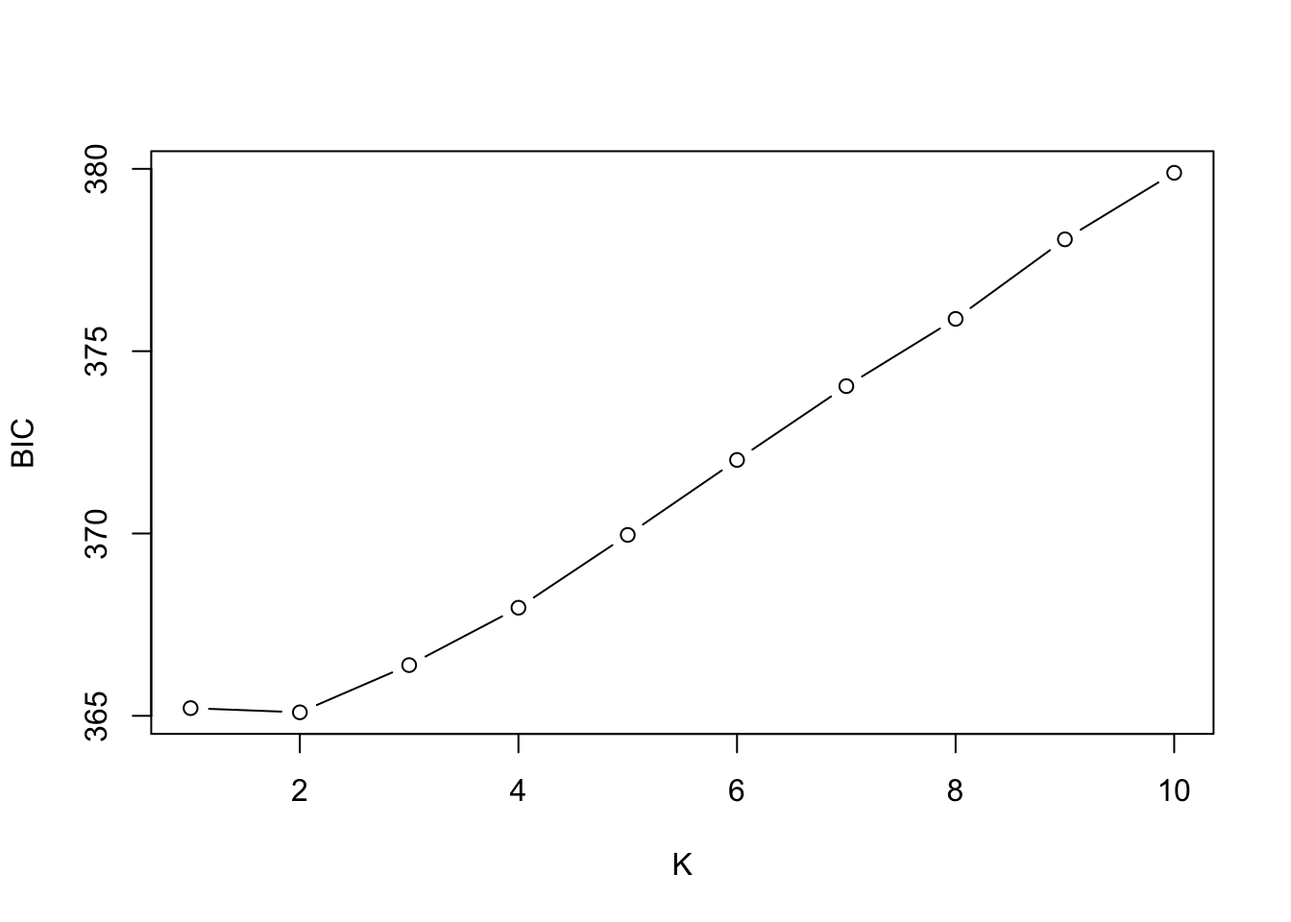
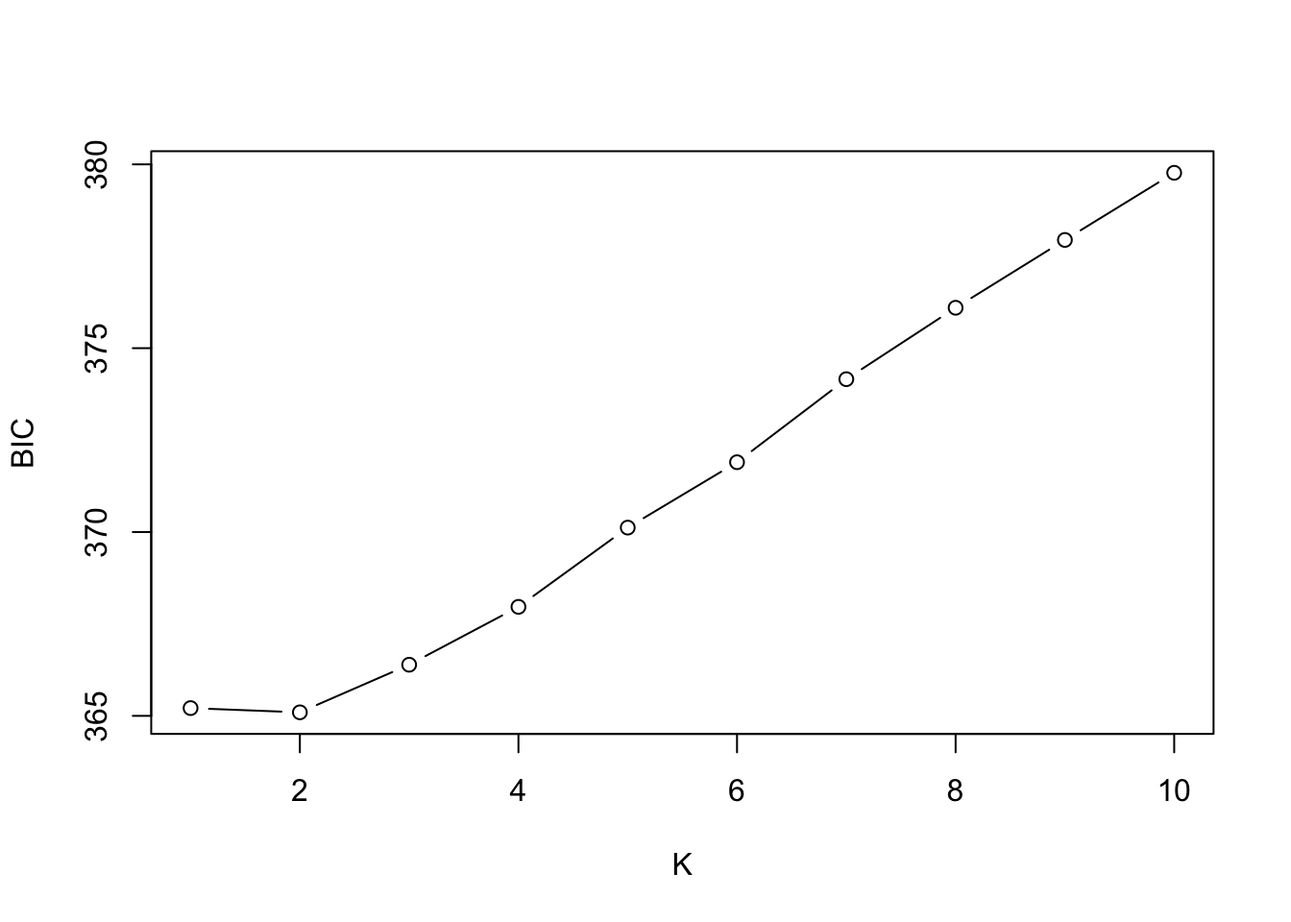
nvm

diff --git a/docs/snakemake.html b/docs/snakemake.html
@@ -245,111 +245,102 @@ pre > code.sourceCode > span > a:first-child::before { text-decoration: underlin
 <span id="cb8-11"><a href="#cb8-11" aria-hidden="true" tabindex="-1"></a><span class="ex">module</span> load Mamba/23.11.0-0<span class="kw">;</span></span>
 <span id="cb8-12"><a href="#cb8-12" aria-hidden="true" tabindex="-1"></a><span class="bu">eval</span> <span class="st">"</span><span class="va">$(</span><span class="ex">conda</span> shell.bash hook<span class="va">)</span><span class="st">"</span></span>
 <span id="cb8-13"><a href="#cb8-13" aria-hidden="true" tabindex="-1"></a><span class="ex">snakemake</span> <span class="at">--profile</span> profile/slurm <span class="at">--use-conda</span></span></code></pre></div><button title="Copy to Clipboard" class="code-copy-button"><i class="bi"></i></button></div>
-<p>You should also add a configuration file for your job scheduler (<code>profiles/slurm/config.yaml</code>):</p>
-<div class="code-copy-outer-scaffold"><div class="sourceCode" id="cb9"><pre class="sourceCode bash code-with-copy"><code class="sourceCode bash"><span id="cb9-1"><a href="#cb9-1" aria-hidden="true" tabindex="-1"></a><span class="ex">executor:</span> slurm</span>
-<span id="cb9-2"><a href="#cb9-2" aria-hidden="true" tabindex="-1"></a><span class="ex">jobs:</span> 20</span>
-<span id="cb9-3"><a href="#cb9-3" aria-hidden="true" tabindex="-1"></a><span class="ex">latency-wait:</span> 60</span>
-<span id="cb9-4"><a href="#cb9-4" aria-hidden="true" tabindex="-1"></a><span class="ex">default-resources:</span></span>
-<span id="cb9-5"><a href="#cb9-5" aria-hidden="true" tabindex="-1"></a>  <span class="ex">-</span> runtime=30</span>
-<span id="cb9-6"><a href="#cb9-6" aria-hidden="true" tabindex="-1"></a>  <span class="ex">-</span> mem_mb=4000</span>
-<span id="cb9-7"><a href="#cb9-7" aria-hidden="true" tabindex="-1"></a>  <span class="ex">-</span> slurm_partition=priority</span>
-<span id="cb9-8"><a href="#cb9-8" aria-hidden="true" tabindex="-1"></a>  <span class="ex">-</span> slurm_account=priority-bioe-591-genomics</span></code></pre></div><button title="Copy to Clipboard" class="code-copy-button"><i class="bi"></i></button></div>
 <p>In theory, you should be ready to run the workflow. Before we do so, however, it is useful to perform a so-called dry run by invoking the same command with the addition of the argument <code>-n</code>. Doing so will test whether your paths and <code>Snakemake</code> syntax is correct and preview the steps it will run—something particularly helpful when they are not what you expect! Conveniently, this can be done on the login node (though recall you will need to make <code>Mamba</code> and the <code>conda</code> command accessible via <code>module load Mamba/23.11.0-0; eval "$(conda shell.bash hook)"</code>):</p>
-<div class="code-copy-outer-scaffold"><div class="sourceCode" id="cb10"><pre class="sourceCode bash code-with-copy"><code class="sourceCode bash"><span id="cb10-1"><a href="#cb10-1" aria-hidden="true" tabindex="-1"></a><span class="ex">snakemake</span> <span class="at">--profile</span> profile/slurm <span class="at">--use-conda</span> <span class="at">-n</span> </span></code></pre></div><button title="Copy to Clipboard" class="code-copy-button"><i class="bi"></i></button></div>
+<div class="code-copy-outer-scaffold"><div class="sourceCode" id="cb9"><pre class="sourceCode bash code-with-copy"><code class="sourceCode bash"><span id="cb9-1"><a href="#cb9-1" aria-hidden="true" tabindex="-1"></a><span class="ex">snakemake</span> <span class="at">--profile</span> profile/slurm <span class="at">--use-conda</span> <span class="at">-n</span> </span></code></pre></div><button title="Copy to Clipboard" class="code-copy-button"><i class="bi"></i></button></div>
 <p>If successful, you should see output that begins like this, summarizing the number of jobs on tap:</p>
-<div class="code-copy-outer-scaffold"><div class="sourceCode" id="cb11"><pre class="sourceCode bash code-with-copy"><code class="sourceCode bash"><span id="cb11-1"><a href="#cb11-1" aria-hidden="true" tabindex="-1"></a><span class="ex">Using</span> profile profile/slurm for setting default command line arguments.</span>
-<span id="cb11-2"><a href="#cb11-2" aria-hidden="true" tabindex="-1"></a><span class="ex">host:</span> tempest-login</span>
-<span id="cb11-3"><a href="#cb11-3" aria-hidden="true" tabindex="-1"></a><span class="ex">Building</span> DAG of jobs...</span>
-<span id="cb11-4"><a href="#cb11-4" aria-hidden="true" tabindex="-1"></a><span class="ex">Conda</span> environment envs/fastp.yaml will be created.</span>
-<span id="cb11-5"><a href="#cb11-5" aria-hidden="true" tabindex="-1"></a><span class="ex">Job</span> stats:</span>
-<span id="cb11-6"><a href="#cb11-6" aria-hidden="true" tabindex="-1"></a><span class="ex">job</span>      count</span>
-<span id="cb11-7"><a href="#cb11-7" aria-hidden="true" tabindex="-1"></a><span class="ex">-----</span>  <span class="at">-------</span></span>
-<span id="cb11-8"><a href="#cb11-8" aria-hidden="true" tabindex="-1"></a><span class="ex">fastp</span>        1</span>
-<span id="cb11-9"><a href="#cb11-9" aria-hidden="true" tabindex="-1"></a><span class="ex">total</span>        1</span></code></pre></div><button title="Copy to Clipboard" class="code-copy-button"><i class="bi"></i></button></div>
+<div class="code-copy-outer-scaffold"><div class="sourceCode" id="cb10"><pre class="sourceCode bash code-with-copy"><code class="sourceCode bash"><span id="cb10-1"><a href="#cb10-1" aria-hidden="true" tabindex="-1"></a><span class="ex">Using</span> profile profile/slurm for setting default command line arguments.</span>
+<span id="cb10-2"><a href="#cb10-2" aria-hidden="true" tabindex="-1"></a><span class="ex">host:</span> tempest-login</span>
+<span id="cb10-3"><a href="#cb10-3" aria-hidden="true" tabindex="-1"></a><span class="ex">Building</span> DAG of jobs...</span>
+<span id="cb10-4"><a href="#cb10-4" aria-hidden="true" tabindex="-1"></a><span class="ex">Conda</span> environment envs/fastp.yaml will be created.</span>
+<span id="cb10-5"><a href="#cb10-5" aria-hidden="true" tabindex="-1"></a><span class="ex">Job</span> stats:</span>
+<span id="cb10-6"><a href="#cb10-6" aria-hidden="true" tabindex="-1"></a><span class="ex">job</span>      count</span>
+<span id="cb10-7"><a href="#cb10-7" aria-hidden="true" tabindex="-1"></a><span class="ex">-----</span>  <span class="at">-------</span></span>
+<span id="cb10-8"><a href="#cb10-8" aria-hidden="true" tabindex="-1"></a><span class="ex">fastp</span>        1</span>
+<span id="cb10-9"><a href="#cb10-9" aria-hidden="true" tabindex="-1"></a><span class="ex">total</span>        1</span></code></pre></div><button title="Copy to Clipboard" class="code-copy-button"><i class="bi"></i></button></div>
 <p>The latter half indicates that <code>rule fastp</code> will indeed be run, as it is missing output files:</p>
-<div class="code-copy-outer-scaffold"><div class="sourceCode" id="cb12"><pre class="sourceCode bash code-with-copy"><code class="sourceCode bash"><span id="cb12-1"><a href="#cb12-1" aria-hidden="true" tabindex="-1"></a><span class="ex">rule</span> fastp:</span>
-<span id="cb12-2"><a href="#cb12-2" aria-hidden="true" tabindex="-1"></a>    <span class="ex">input:</span> data/sample1_R1.fastq.gz, data/sample1_R2.fastq.gz</span>
-<span id="cb12-3"><a href="#cb12-3" aria-hidden="true" tabindex="-1"></a>    <span class="ex">output:</span> results/clean/sample1_R1.clean.fastq.gz, results/clean/sample1_R2.clean.fastq.gz</span>
-<span id="cb12-4"><a href="#cb12-4" aria-hidden="true" tabindex="-1"></a>    <span class="ex">jobid:</span> 0</span>
-<span id="cb12-5"><a href="#cb12-5" aria-hidden="true" tabindex="-1"></a>    <span class="ex">reason:</span> Missing output files: results/clean/sample1_R1.clean.fastq.gz, results/clean/sample1_R2.clean.fastq.gz</span>
-<span id="cb12-6"><a href="#cb12-6" aria-hidden="true" tabindex="-1"></a>    <span class="ex">resources:</span> mem_mb=4000, mem_mib=3815, disk_mb=<span class="op">&lt;</span>TBD<span class="op">&gt;</span>, tmpdir=<span class="op">&lt;</span>TBD<span class="op">&gt;</span>, runtime=30, slurm_partition=<span class="op">&lt;</span>TBD<span class="op">&gt;</span>, slurm_account=<span class="op">&lt;</span>TBD<span class="op">&gt;</span></span>
-<span id="cb12-7"><a href="#cb12-7" aria-hidden="true" tabindex="-1"></a><span class="ex">Job</span> stats:</span>
-<span id="cb12-8"><a href="#cb12-8" aria-hidden="true" tabindex="-1"></a><span class="ex">job</span>      count</span>
-<span id="cb12-9"><a href="#cb12-9" aria-hidden="true" tabindex="-1"></a><span class="ex">-----</span>  <span class="at">-------</span></span>
-<span id="cb12-10"><a href="#cb12-10" aria-hidden="true" tabindex="-1"></a><span class="ex">fastp</span>        1</span>
-<span id="cb12-11"><a href="#cb12-11" aria-hidden="true" tabindex="-1"></a><span class="ex">total</span>        1</span>
-<span id="cb12-12"><a href="#cb12-12" aria-hidden="true" tabindex="-1"></a></span>
-<span id="cb12-13"><a href="#cb12-13" aria-hidden="true" tabindex="-1"></a><span class="ex">Reasons:</span></span>
-<span id="cb12-14"><a href="#cb12-14" aria-hidden="true" tabindex="-1"></a>    <span class="kw">(</span><span class="ex">check</span> individual jobs above for details<span class="kw">)</span></span>
-<span id="cb12-15"><a href="#cb12-15" aria-hidden="true" tabindex="-1"></a>    <span class="ex">output</span> files have to be generated:</span>
-<span id="cb12-16"><a href="#cb12-16" aria-hidden="true" tabindex="-1"></a>        <span class="ex">fastp</span></span>
-<span id="cb12-17"><a href="#cb12-17" aria-hidden="true" tabindex="-1"></a><span class="ex">This</span> was a dry-run <span class="er">(</span><span class="ex">flag</span> <span class="at">-n</span><span class="kw">)</span><span class="bu">.</span> The order of jobs does not reflect the order of execution.</span></code></pre></div><button title="Copy to Clipboard" class="code-copy-button"><i class="bi"></i></button></div>
+<div class="code-copy-outer-scaffold"><div class="sourceCode" id="cb11"><pre class="sourceCode bash code-with-copy"><code class="sourceCode bash"><span id="cb11-1"><a href="#cb11-1" aria-hidden="true" tabindex="-1"></a><span class="ex">rule</span> fastp:</span>
+<span id="cb11-2"><a href="#cb11-2" aria-hidden="true" tabindex="-1"></a>    <span class="ex">input:</span> data/sample1_R1.fastq.gz, data/sample1_R2.fastq.gz</span>
+<span id="cb11-3"><a href="#cb11-3" aria-hidden="true" tabindex="-1"></a>    <span class="ex">output:</span> results/clean/sample1_R1.clean.fastq.gz, results/clean/sample1_R2.clean.fastq.gz</span>
+<span id="cb11-4"><a href="#cb11-4" aria-hidden="true" tabindex="-1"></a>    <span class="ex">jobid:</span> 0</span>
+<span id="cb11-5"><a href="#cb11-5" aria-hidden="true" tabindex="-1"></a>    <span class="ex">reason:</span> Missing output files: results/clean/sample1_R1.clean.fastq.gz, results/clean/sample1_R2.clean.fastq.gz</span>
+<span id="cb11-6"><a href="#cb11-6" aria-hidden="true" tabindex="-1"></a>    <span class="ex">resources:</span> mem_mb=4000, mem_mib=3815, disk_mb=<span class="op">&lt;</span>TBD<span class="op">&gt;</span>, tmpdir=<span class="op">&lt;</span>TBD<span class="op">&gt;</span>, runtime=30, slurm_partition=<span class="op">&lt;</span>TBD<span class="op">&gt;</span>, slurm_account=<span class="op">&lt;</span>TBD<span class="op">&gt;</span></span>
+<span id="cb11-7"><a href="#cb11-7" aria-hidden="true" tabindex="-1"></a><span class="ex">Job</span> stats:</span>
+<span id="cb11-8"><a href="#cb11-8" aria-hidden="true" tabindex="-1"></a><span class="ex">job</span>      count</span>
+<span id="cb11-9"><a href="#cb11-9" aria-hidden="true" tabindex="-1"></a><span class="ex">-----</span>  <span class="at">-------</span></span>
+<span id="cb11-10"><a href="#cb11-10" aria-hidden="true" tabindex="-1"></a><span class="ex">fastp</span>        1</span>
+<span id="cb11-11"><a href="#cb11-11" aria-hidden="true" tabindex="-1"></a><span class="ex">total</span>        1</span>
+<span id="cb11-12"><a href="#cb11-12" aria-hidden="true" tabindex="-1"></a></span>
+<span id="cb11-13"><a href="#cb11-13" aria-hidden="true" tabindex="-1"></a><span class="ex">Reasons:</span></span>
+<span id="cb11-14"><a href="#cb11-14" aria-hidden="true" tabindex="-1"></a>    <span class="kw">(</span><span class="ex">check</span> individual jobs above for details<span class="kw">)</span></span>
+<span id="cb11-15"><a href="#cb11-15" aria-hidden="true" tabindex="-1"></a>    <span class="ex">output</span> files have to be generated:</span>
+<span id="cb11-16"><a href="#cb11-16" aria-hidden="true" tabindex="-1"></a>        <span class="ex">fastp</span></span>
+<span id="cb11-17"><a href="#cb11-17" aria-hidden="true" tabindex="-1"></a><span class="ex">This</span> was a dry-run <span class="er">(</span><span class="ex">flag</span> <span class="at">-n</span><span class="kw">)</span><span class="bu">.</span> The order of jobs does not reflect the order of execution.</span></code></pre></div><button title="Copy to Clipboard" class="code-copy-button"><i class="bi"></i></button></div>
 <p>Once your dry run command produces the above text, you can execute the real script, being careful to do so from the root of the <code>workflow/</code> directory to ensure relative paths are not broken (e.g., <code>sbatch run/snakemake.sbatch</code>). The job should run relatively quickly, producing the <code>fastp.html</code> and <code>fastp.json</code> files you inspected earlier. It will also output trimmed reads in the <code>results/clean/</code> subdirectory, with the names given by the <code>output:</code> block of <code>rule fastp</code> in your <code>Snakefile</code>.</p>
 <p>Though it is always satisfying to have a complicated piece of software run successfully, such a simple example does not clearly demonstrate one of the primary benefits of <code>Snakemake</code>—the ability to robustly apply commands to multiple samples simultaneously. You’ve come up with various solutions to this so far, ranging from copy-paste to the asterices in filenames, but may have also been burned by the difficulty of doing so safely and efficiently. We will now introduce <code>Snakemake</code>’s wildcard syntax, re-running <code>fastp</code> on multiple files simultaneously. To do so, you will want to copy at least one other sample’s paired end reads into <code>workflow/data</code>.</p>
 <p>Next, edit your <code>Snakefile</code> using <code>nano</code>. In simplified the example below, the wildcard <code>{sample}</code> will match any character string in a file that ends <code>_R1.fastq.gz</code>. (For most of you, <code>_R1_001.fastq.gz</code> and <code>_R2_001.fastq.gz</code> will be better choices.) We specify our samples with a vector labeled <code>SAMPLES</code>, which comes into play directly in the biggest addition to our <code>Snakefile</code>—the new <code>rule all</code>, which defines the end point of the workflow. Here, <code>Snakemake</code> simply looks for “input” files that indicate the entire pipeline is complete. In our case, these are trimmed <code>fastq.gz</code> files, which are listed using the <a href="https://snakemake.readthedocs.io/en/stable/snakefiles/rules.html">software’s <code>expand()</code> helper function</a>.</p>
-<div class="code-copy-outer-scaffold"><div class="sourceCode" id="cb13"><pre class="sourceCode bash code-with-copy"><code class="sourceCode bash"><span id="cb13-1"><a href="#cb13-1" aria-hidden="true" tabindex="-1"></a><span class="ex">SAMPLES</span> = <span class="pp">[</span><span class="st">"sample1"</span><span class="ss">,</span><span class="st">"sample2"</span><span class="pp">]</span></span>
-<span id="cb13-2"><a href="#cb13-2" aria-hidden="true" tabindex="-1"></a></span>
-<span id="cb13-3"><a href="#cb13-3" aria-hidden="true" tabindex="-1"></a><span class="ex">rule</span> all:</span>
-<span id="cb13-4"><a href="#cb13-4" aria-hidden="true" tabindex="-1"></a>    <span class="ex">input:</span></span>
-<span id="cb13-5"><a href="#cb13-5" aria-hidden="true" tabindex="-1"></a>        <span class="fu">expand</span><span class="er">(</span><span class="st">"results/clean/{sample}_R1.clean.fastq.gz"</span><span class="ex">,</span> sample=SAMPLES<span class="kw">)</span><span class="ex">,</span></span>
-<span id="cb13-6"><a href="#cb13-6" aria-hidden="true" tabindex="-1"></a>        <span class="fu">expand</span><span class="er">(</span><span class="st">"results/clean/{sample}_R2.clean.fastq.gz"</span><span class="ex">,</span> sample=SAMPLES<span class="kw">)</span></span>
-<span id="cb13-7"><a href="#cb13-7" aria-hidden="true" tabindex="-1"></a></span>
-<span id="cb13-8"><a href="#cb13-8" aria-hidden="true" tabindex="-1"></a><span class="ex">rule</span> fastp:</span>
-<span id="cb13-9"><a href="#cb13-9" aria-hidden="true" tabindex="-1"></a>    <span class="ex">conda:</span></span>
-<span id="cb13-10"><a href="#cb13-10" aria-hidden="true" tabindex="-1"></a>        <span class="st">"envs/fastp.yaml"</span></span>
-<span id="cb13-11"><a href="#cb13-11" aria-hidden="true" tabindex="-1"></a>    <span class="ex">input:</span></span>
-<span id="cb13-12"><a href="#cb13-12" aria-hidden="true" tabindex="-1"></a>        <span class="va">r1</span><span class="op">=</span><span class="st">"data/{sample}_R1.fastq.gz"</span>,</span>
-<span id="cb13-13"><a href="#cb13-13" aria-hidden="true" tabindex="-1"></a>        <span class="va">r2</span><span class="op">=</span><span class="st">"data/{sample}_R2.fastq.gz"</span></span>
-<span id="cb13-14"><a href="#cb13-14" aria-hidden="true" tabindex="-1"></a>    <span class="ex">output:</span></span>
-<span id="cb13-15"><a href="#cb13-15" aria-hidden="true" tabindex="-1"></a>        <span class="va">r1</span><span class="op">=</span><span class="st">"results/clean/{sample}_R1.clean.fastq.gz"</span>,</span>
-<span id="cb13-16"><a href="#cb13-16" aria-hidden="true" tabindex="-1"></a>        <span class="va">r2</span><span class="op">=</span><span class="st">"results/clean/{sample}_R2.clean.fastq.gz"</span></span>
-<span id="cb13-17"><a href="#cb13-17" aria-hidden="true" tabindex="-1"></a>    <span class="ex">shell:</span></span>
-<span id="cb13-18"><a href="#cb13-18" aria-hidden="true" tabindex="-1"></a>        <span class="st">"""</span></span>
-<span id="cb13-19"><a href="#cb13-19" aria-hidden="true" tabindex="-1"></a><span class="st">        fastp </span><span class="dt">\</span></span>
-<span id="cb13-20"><a href="#cb13-20" aria-hidden="true" tabindex="-1"></a><span class="st">        -i {input.r1} -I {input.r2} </span><span class="dt">\</span></span>
-<span id="cb13-21"><a href="#cb13-21" aria-hidden="true" tabindex="-1"></a><span class="st">        -o {output.r1} -O {output.r2}</span></span>
-<span id="cb13-22"><a href="#cb13-22" aria-hidden="true" tabindex="-1"></a><span class="st">        """</span></span></code></pre></div><button title="Copy to Clipboard" class="code-copy-button"><i class="bi"></i></button></div>
+<div class="code-copy-outer-scaffold"><div class="sourceCode" id="cb12"><pre class="sourceCode bash code-with-copy"><code class="sourceCode bash"><span id="cb12-1"><a href="#cb12-1" aria-hidden="true" tabindex="-1"></a><span class="ex">SAMPLES</span> = <span class="pp">[</span><span class="st">"sample1"</span><span class="ss">,</span><span class="st">"sample2"</span><span class="pp">]</span></span>
+<span id="cb12-2"><a href="#cb12-2" aria-hidden="true" tabindex="-1"></a></span>
+<span id="cb12-3"><a href="#cb12-3" aria-hidden="true" tabindex="-1"></a><span class="ex">rule</span> all:</span>
+<span id="cb12-4"><a href="#cb12-4" aria-hidden="true" tabindex="-1"></a>    <span class="ex">input:</span></span>
+<span id="cb12-5"><a href="#cb12-5" aria-hidden="true" tabindex="-1"></a>        <span class="fu">expand</span><span class="er">(</span><span class="st">"results/clean/{sample}_R1.clean.fastq.gz"</span><span class="ex">,</span> sample=SAMPLES<span class="kw">)</span><span class="ex">,</span></span>
+<span id="cb12-6"><a href="#cb12-6" aria-hidden="true" tabindex="-1"></a>        <span class="fu">expand</span><span class="er">(</span><span class="st">"results/clean/{sample}_R2.clean.fastq.gz"</span><span class="ex">,</span> sample=SAMPLES<span class="kw">)</span></span>
+<span id="cb12-7"><a href="#cb12-7" aria-hidden="true" tabindex="-1"></a></span>
+<span id="cb12-8"><a href="#cb12-8" aria-hidden="true" tabindex="-1"></a><span class="ex">rule</span> fastp:</span>
+<span id="cb12-9"><a href="#cb12-9" aria-hidden="true" tabindex="-1"></a>    <span class="ex">conda:</span></span>
+<span id="cb12-10"><a href="#cb12-10" aria-hidden="true" tabindex="-1"></a>        <span class="st">"envs/fastp.yaml"</span></span>
+<span id="cb12-11"><a href="#cb12-11" aria-hidden="true" tabindex="-1"></a>    <span class="ex">input:</span></span>
+<span id="cb12-12"><a href="#cb12-12" aria-hidden="true" tabindex="-1"></a>        <span class="va">r1</span><span class="op">=</span><span class="st">"data/{sample}_R1.fastq.gz"</span>,</span>
+<span id="cb12-13"><a href="#cb12-13" aria-hidden="true" tabindex="-1"></a>        <span class="va">r2</span><span class="op">=</span><span class="st">"data/{sample}_R2.fastq.gz"</span></span>
+<span id="cb12-14"><a href="#cb12-14" aria-hidden="true" tabindex="-1"></a>    <span class="ex">output:</span></span>
+<span id="cb12-15"><a href="#cb12-15" aria-hidden="true" tabindex="-1"></a>        <span class="va">r1</span><span class="op">=</span><span class="st">"results/clean/{sample}_R1.clean.fastq.gz"</span>,</span>
+<span id="cb12-16"><a href="#cb12-16" aria-hidden="true" tabindex="-1"></a>        <span class="va">r2</span><span class="op">=</span><span class="st">"results/clean/{sample}_R2.clean.fastq.gz"</span></span>
+<span id="cb12-17"><a href="#cb12-17" aria-hidden="true" tabindex="-1"></a>    <span class="ex">shell:</span></span>
+<span id="cb12-18"><a href="#cb12-18" aria-hidden="true" tabindex="-1"></a>        <span class="st">"""</span></span>
+<span id="cb12-19"><a href="#cb12-19" aria-hidden="true" tabindex="-1"></a><span class="st">        fastp </span><span class="dt">\</span></span>
+<span id="cb12-20"><a href="#cb12-20" aria-hidden="true" tabindex="-1"></a><span class="st">        -i {input.r1} -I {input.r2} </span><span class="dt">\</span></span>
+<span id="cb12-21"><a href="#cb12-21" aria-hidden="true" tabindex="-1"></a><span class="st">        -o {output.r1} -O {output.r2}</span></span>
+<span id="cb12-22"><a href="#cb12-22" aria-hidden="true" tabindex="-1"></a><span class="st">        """</span></span></code></pre></div><button title="Copy to Clipboard" class="code-copy-button"><i class="bi"></i></button></div>
 <p>Once your paths and filenames have been changed as needed, attempt another dry run (<code>snakemake --profile profile/slurm --use-conda -n</code>). If it is successful, you will note that the <code>count</code> of the <code>total</code> row in the job stats section of the output now equals the number of samples you copied into your <code>data/</code> subdirectory. This indicates you are ready to run the <code>.sbatch</code> script for real.</p>
 <p>To conclude our <code>Snakemake</code> tutorial, we will expand our <code>Snakefile</code> to include a second rule: <code>index</code>, which will run <code>samtools faidx</code> to generate a <code>.fasta</code> index file. First, you’ll need to create a <code>genome/</code> subdirectory in <code>workflow/</code>, and copy over <code>hemoglobin_references.fasta</code> into it. You’ll also want to copy over the <code>align.yaml</code> environment into <code>envs/</code>. For convenience, I’ll reproduce that here:</p>
-<div class="code-copy-outer-scaffold"><div class="sourceCode" id="cb14"><pre class="sourceCode bash code-with-copy"><code class="sourceCode bash"><span id="cb14-1"><a href="#cb14-1" aria-hidden="true" tabindex="-1"></a><span class="ex">name:</span> align</span>
-<span id="cb14-2"><a href="#cb14-2" aria-hidden="true" tabindex="-1"></a><span class="ex">channels:</span></span>
-<span id="cb14-3"><a href="#cb14-3" aria-hidden="true" tabindex="-1"></a>  <span class="ex">-</span> conda-forge</span>
-<span id="cb14-4"><a href="#cb14-4" aria-hidden="true" tabindex="-1"></a>  <span class="ex">-</span> bioconda</span>
-<span id="cb14-5"><a href="#cb14-5" aria-hidden="true" tabindex="-1"></a><span class="ex">dependencies:</span></span>
-<span id="cb14-6"><a href="#cb14-6" aria-hidden="true" tabindex="-1"></a>  <span class="ex">-</span> bwa=0.7.17</span>
-<span id="cb14-7"><a href="#cb14-7" aria-hidden="true" tabindex="-1"></a>  <span class="ex">-</span> samtools=1.19</span></code></pre></div><button title="Copy to Clipboard" class="code-copy-button"><i class="bi"></i></button></div>
+<div class="code-copy-outer-scaffold"><div class="sourceCode" id="cb13"><pre class="sourceCode bash code-with-copy"><code class="sourceCode bash"><span id="cb13-1"><a href="#cb13-1" aria-hidden="true" tabindex="-1"></a><span class="ex">name:</span> align</span>
+<span id="cb13-2"><a href="#cb13-2" aria-hidden="true" tabindex="-1"></a><span class="ex">channels:</span></span>
+<span id="cb13-3"><a href="#cb13-3" aria-hidden="true" tabindex="-1"></a>  <span class="ex">-</span> conda-forge</span>
+<span id="cb13-4"><a href="#cb13-4" aria-hidden="true" tabindex="-1"></a>  <span class="ex">-</span> bioconda</span>
+<span id="cb13-5"><a href="#cb13-5" aria-hidden="true" tabindex="-1"></a><span class="ex">dependencies:</span></span>
+<span id="cb13-6"><a href="#cb13-6" aria-hidden="true" tabindex="-1"></a>  <span class="ex">-</span> bwa=0.7.17</span>
+<span id="cb13-7"><a href="#cb13-7" aria-hidden="true" tabindex="-1"></a>  <span class="ex">-</span> samtools=1.19</span></code></pre></div><button title="Copy to Clipboard" class="code-copy-button"><i class="bi"></i></button></div>
 <p>Then, add the following <code>rule</code> to the end of your <code>Snakefile</code> (i.e., one blank line below the end of <code>rule fastp</code>):</p>
-<div class="code-copy-outer-scaffold"><div class="sourceCode" id="cb15"><pre class="sourceCode bash code-with-copy"><code class="sourceCode bash"><span id="cb15-1"><a href="#cb15-1" aria-hidden="true" tabindex="-1"></a><span class="ex">rule</span> index:</span>
-<span id="cb15-2"><a href="#cb15-2" aria-hidden="true" tabindex="-1"></a>    <span class="ex">input:</span></span>
-<span id="cb15-3"><a href="#cb15-3" aria-hidden="true" tabindex="-1"></a>        <span class="st">"genome/hemoglobin_references.fasta"</span></span>
-<span id="cb15-4"><a href="#cb15-4" aria-hidden="true" tabindex="-1"></a>    <span class="ex">output:</span></span>
-<span id="cb15-5"><a href="#cb15-5" aria-hidden="true" tabindex="-1"></a>        <span class="st">"genome/hemoglobin_references.fasta.fai"</span></span>
-<span id="cb15-6"><a href="#cb15-6" aria-hidden="true" tabindex="-1"></a>    <span class="ex">conda:</span></span>
-<span id="cb15-7"><a href="#cb15-7" aria-hidden="true" tabindex="-1"></a>        <span class="st">"envs/align.yaml"</span></span>
-<span id="cb15-8"><a href="#cb15-8" aria-hidden="true" tabindex="-1"></a>    <span class="ex">shell:</span></span>
-<span id="cb15-9"><a href="#cb15-9" aria-hidden="true" tabindex="-1"></a>        <span class="st">"""</span></span>
-<span id="cb15-10"><a href="#cb15-10" aria-hidden="true" tabindex="-1"></a><span class="st">        samtools faidx {input}</span></span>
-<span id="cb15-11"><a href="#cb15-11" aria-hidden="true" tabindex="-1"></a><span class="st">        """</span></span></code></pre></div><button title="Copy to Clipboard" class="code-copy-button"><i class="bi"></i></button></div>
+<div class="code-copy-outer-scaffold"><div class="sourceCode" id="cb14"><pre class="sourceCode bash code-with-copy"><code class="sourceCode bash"><span id="cb14-1"><a href="#cb14-1" aria-hidden="true" tabindex="-1"></a><span class="ex">rule</span> index:</span>
+<span id="cb14-2"><a href="#cb14-2" aria-hidden="true" tabindex="-1"></a>    <span class="ex">input:</span></span>
+<span id="cb14-3"><a href="#cb14-3" aria-hidden="true" tabindex="-1"></a>        <span class="st">"genome/hemoglobin_references.fasta"</span></span>
+<span id="cb14-4"><a href="#cb14-4" aria-hidden="true" tabindex="-1"></a>    <span class="ex">output:</span></span>
+<span id="cb14-5"><a href="#cb14-5" aria-hidden="true" tabindex="-1"></a>        <span class="st">"genome/hemoglobin_references.fasta.fai"</span></span>
+<span id="cb14-6"><a href="#cb14-6" aria-hidden="true" tabindex="-1"></a>    <span class="ex">conda:</span></span>
+<span id="cb14-7"><a href="#cb14-7" aria-hidden="true" tabindex="-1"></a>        <span class="st">"envs/align.yaml"</span></span>
+<span id="cb14-8"><a href="#cb14-8" aria-hidden="true" tabindex="-1"></a>    <span class="ex">shell:</span></span>
+<span id="cb14-9"><a href="#cb14-9" aria-hidden="true" tabindex="-1"></a>        <span class="st">"""</span></span>
+<span id="cb14-10"><a href="#cb14-10" aria-hidden="true" tabindex="-1"></a><span class="st">        samtools faidx {input}</span></span>
+<span id="cb14-11"><a href="#cb14-11" aria-hidden="true" tabindex="-1"></a><span class="st">        """</span></span></code></pre></div><button title="Copy to Clipboard" class="code-copy-button"><i class="bi"></i></button></div>
 <p>If your indentation is O.K., you should be able to give the workflow a dry run immediately. Likely as not, you’ll see the following output:</p>
-<div class="code-copy-outer-scaffold"><div class="sourceCode" id="cb16"><pre class="sourceCode bash code-with-copy"><code class="sourceCode bash"><span id="cb16-1"><a href="#cb16-1" aria-hidden="true" tabindex="-1"></a><span class="ex">Building</span> DAG of jobs...</span>
-<span id="cb16-2"><a href="#cb16-2" aria-hidden="true" tabindex="-1"></a><span class="ex">Nothing</span> to be done <span class="er">(</span><span class="ex">all</span> requested files are present and up to date<span class="kw">)</span><span class="bu">.</span></span></code></pre></div><button title="Copy to Clipboard" class="code-copy-button"><i class="bi"></i></button></div>
+<div class="code-copy-outer-scaffold"><div class="sourceCode" id="cb15"><pre class="sourceCode bash code-with-copy"><code class="sourceCode bash"><span id="cb15-1"><a href="#cb15-1" aria-hidden="true" tabindex="-1"></a><span class="ex">Building</span> DAG of jobs...</span>
+<span id="cb15-2"><a href="#cb15-2" aria-hidden="true" tabindex="-1"></a><span class="ex">Nothing</span> to be done <span class="er">(</span><span class="ex">all</span> requested files are present and up to date<span class="kw">)</span><span class="bu">.</span></span></code></pre></div><button title="Copy to Clipboard" class="code-copy-button"><i class="bi"></i></button></div>
 <p>But there’s a new rule!, I can hear you gasp. How can this be?! The answer is that <code>rule all</code> has a target (trimmed <code>.fastq.gz</code> files) that does not directly or indirectly invoke the output of <code>rule index</code>. To continue with your workflow, you’ll need to update <code>rule all</code> to reflect the new endpoint, i.e.:</p>
-<div class="code-copy-outer-scaffold"><div class="sourceCode" id="cb17"><pre class="sourceCode bash code-with-copy"><code class="sourceCode bash"><span id="cb17-1"><a href="#cb17-1" aria-hidden="true" tabindex="-1"></a><span class="ex">rule</span> all:</span>
-<span id="cb17-2"><a href="#cb17-2" aria-hidden="true" tabindex="-1"></a>    <span class="ex">input:</span></span>
-<span id="cb17-3"><a href="#cb17-3" aria-hidden="true" tabindex="-1"></a>        <span class="st">"genome/hemoglobin_references.fasta.fai"</span></span></code></pre></div><button title="Copy to Clipboard" class="code-copy-button"><i class="bi"></i></button></div>
+<div class="code-copy-outer-scaffold"><div class="sourceCode" id="cb16"><pre class="sourceCode bash code-with-copy"><code class="sourceCode bash"><span id="cb16-1"><a href="#cb16-1" aria-hidden="true" tabindex="-1"></a><span class="ex">rule</span> all:</span>
+<span id="cb16-2"><a href="#cb16-2" aria-hidden="true" tabindex="-1"></a>    <span class="ex">input:</span></span>
+<span id="cb16-3"><a href="#cb16-3" aria-hidden="true" tabindex="-1"></a>        <span class="st">"genome/hemoglobin_references.fasta.fai"</span></span></code></pre></div><button title="Copy to Clipboard" class="code-copy-button"><i class="bi"></i></button></div>
 <p>Once you’ve done so, you should be able to perform both dry and real runs, generating the desired <code>.fai</code> file. (Note that <code>rule all</code> will need to be updated again as you expand your pipeline to include downstream steps, e.g.&nbsp;variant calling and filtering.)</p>
 <p>Now that you have two rules, it is worth introducing <code>Snakemake</code>’s directed acyclic graph generator. Run the following command from the root of <code>workflow/</code>:</p>
-<div class="code-copy-outer-scaffold"><div class="sourceCode" id="cb18"><pre class="sourceCode bash code-with-copy"><code class="sourceCode bash"><span id="cb18-1"><a href="#cb18-1" aria-hidden="true" tabindex="-1"></a><span class="ex">snakemake</span> <span class="at">--dag</span> <span class="kw">|</span> <span class="ex">dot</span> <span class="at">-Tpng</span> <span class="op">&gt;</span> dag.png</span></code></pre></div><button title="Copy to Clipboard" class="code-copy-button"><i class="bi"></i></button></div>
+<div class="code-copy-outer-scaffold"><div class="sourceCode" id="cb17"><pre class="sourceCode bash code-with-copy"><code class="sourceCode bash"><span id="cb17-1"><a href="#cb17-1" aria-hidden="true" tabindex="-1"></a><span class="ex">snakemake</span> <span class="at">--dag</span> <span class="kw">|</span> <span class="ex">dot</span> <span class="at">-Tpng</span> <span class="op">&gt;</span> dag.png</span></code></pre></div><button title="Copy to Clipboard" class="code-copy-button"><i class="bi"></i></button></div>
 <p>You can view this by transferring the file to your laptop via <code>Globus</code>, or via the Tempest Web portal. Though unimpressive now, the output will be increasingly helpful as your <code>Snakefile</code> grows in complexity. Similarly, you can generate a report that includes a DAG, versioning, and runtime info:</p>
-<div class="code-copy-outer-scaffold"><div class="sourceCode" id="cb19"><pre class="sourceCode bash code-with-copy"><code class="sourceCode bash"><span id="cb19-1"><a href="#cb19-1" aria-hidden="true" tabindex="-1"></a><span class="ex">snakemake</span> <span class="at">--report</span> report.html</span></code></pre></div><button title="Copy to Clipboard" class="code-copy-button"><i class="bi"></i></button></div>
+<div class="code-copy-outer-scaffold"><div class="sourceCode" id="cb18"><pre class="sourceCode bash code-with-copy"><code class="sourceCode bash"><span id="cb18-1"><a href="#cb18-1" aria-hidden="true" tabindex="-1"></a><span class="ex">snakemake</span> <span class="at">--report</span> report.html</span></code></pre></div><button title="Copy to Clipboard" class="code-copy-button"><i class="bi"></i></button></div>
 <p>Alas, if you take the time to view either of the previous files, you will notice that now, <code>rule fastp</code> will be ignored. This is again because <code>rule all</code> specifies target files do not require it. We can solve this problem by specifying multiple targets as follows:</p>
-<div class="code-copy-outer-scaffold"><div class="sourceCode" id="cb20"><pre class="sourceCode bash code-with-copy"><code class="sourceCode bash"><span id="cb20-1"><a href="#cb20-1" aria-hidden="true" tabindex="-1"></a><span class="ex">SAMPLES</span> = [<span class="st">"sample1"</span>, <span class="st">"sample2"</span>]</span>
-<span id="cb20-2"><a href="#cb20-2" aria-hidden="true" tabindex="-1"></a></span>
-<span id="cb20-3"><a href="#cb20-3" aria-hidden="true" tabindex="-1"></a><span class="ex">rule</span> all:</span>
-<span id="cb20-4"><a href="#cb20-4" aria-hidden="true" tabindex="-1"></a>    <span class="ex">input:</span></span>
-<span id="cb20-5"><a href="#cb20-5" aria-hidden="true" tabindex="-1"></a>        <span class="st">"genome/hemoglobin_references.fasta.fai"</span><span class="ex">,</span></span>
-<span id="cb20-6"><a href="#cb20-6" aria-hidden="true" tabindex="-1"></a>        <span class="fu">expand</span><span class="er">(</span><span class="st">"results/clean/{sample}_R1.clean.fastq.gz"</span><span class="ex">,</span> sample=SAMPLES<span class="kw">)</span><span class="ex">,</span></span>
-<span id="cb20-7"><a href="#cb20-7" aria-hidden="true" tabindex="-1"></a>        <span class="fu">expand</span><span class="er">(</span><span class="st">"results/clean/{sample}_R2.clean.fastq.gz"</span><span class="ex">,</span> sample=SAMPLES<span class="kw">)</span></span></code></pre></div><button title="Copy to Clipboard" class="code-copy-button"><i class="bi"></i></button></div>
+<div class="code-copy-outer-scaffold"><div class="sourceCode" id="cb19"><pre class="sourceCode bash code-with-copy"><code class="sourceCode bash"><span id="cb19-1"><a href="#cb19-1" aria-hidden="true" tabindex="-1"></a><span class="ex">SAMPLES</span> = [<span class="st">"sample1"</span>, <span class="st">"sample2"</span>]</span>
+<span id="cb19-2"><a href="#cb19-2" aria-hidden="true" tabindex="-1"></a></span>
+<span id="cb19-3"><a href="#cb19-3" aria-hidden="true" tabindex="-1"></a><span class="ex">rule</span> all:</span>
+<span id="cb19-4"><a href="#cb19-4" aria-hidden="true" tabindex="-1"></a>    <span class="ex">input:</span></span>
+<span id="cb19-5"><a href="#cb19-5" aria-hidden="true" tabindex="-1"></a>        <span class="st">"genome/hemoglobin_references.fasta.fai"</span><span class="ex">,</span></span>
+<span id="cb19-6"><a href="#cb19-6" aria-hidden="true" tabindex="-1"></a>        <span class="fu">expand</span><span class="er">(</span><span class="st">"results/clean/{sample}_R1.clean.fastq.gz"</span><span class="ex">,</span> sample=SAMPLES<span class="kw">)</span><span class="ex">,</span></span>
+<span id="cb19-7"><a href="#cb19-7" aria-hidden="true" tabindex="-1"></a>        <span class="fu">expand</span><span class="er">(</span><span class="st">"results/clean/{sample}_R2.clean.fastq.gz"</span><span class="ex">,</span> sample=SAMPLES<span class="kw">)</span></span></code></pre></div><button title="Copy to Clipboard" class="code-copy-button"><i class="bi"></i></button></div>
 <p>(However, this will not be necessary if a subsequent rule takes both as input—which, of course, is exactly what is needed for <code>bwa mem</code>.)</p>
 <p>Thus concludes our unit on pipelines. Though our introduction to <code>Snakemake</code> has been necessarily cursory, I hope it has demonstrated its potential power, and sets you off on a lifetime of productive. bioinformatics. Good luck, be safe, and have fun.</p>
 <div class="callout callout-style-default callout-note callout-titled" title="**Homework 8**">

diff --git a/docs/structure.html b/docs/structure.html
@@ -560,9 +560,9 @@ $eig (eigenvalues): 2986  vector    length content
 <span id="cb29-11"><a href="#cb29-11" aria-hidden="true" tabindex="-1"></a>grp_auto<span class="sc">$</span>Kstat</span></code></pre></div><button title="Copy to Clipboard" class="code-copy-button"><i class="bi"></i></button></div>
 <div class="cell-output cell-output-stdout">
 <pre><code>     K=1      K=2      K=3      K=4      K=5      K=6      K=7      K=8 
-365.2108 365.0958 366.3905 367.9647 369.9612 372.0171 374.0408 375.8854 
+365.2108 365.0958 366.3905 367.9647 370.1198 371.8986 374.1570 376.0996 
      K=9     K=10 
-378.0675 379.8922 </code></pre>
+377.9438 379.7704 </code></pre>
 </div>
 <div class="code-copy-outer-scaffold"><div class="sourceCode cell-code" id="cb31"><pre class="sourceCode r code-with-copy"><code class="sourceCode r"><span id="cb31-1"><a href="#cb31-1" aria-hidden="true" tabindex="-1"></a><span class="co"># plot!</span></span>
 <span id="cb31-2"><a href="#cb31-2" aria-hidden="true" tabindex="-1"></a><span class="fu">plot</span>(</span>
